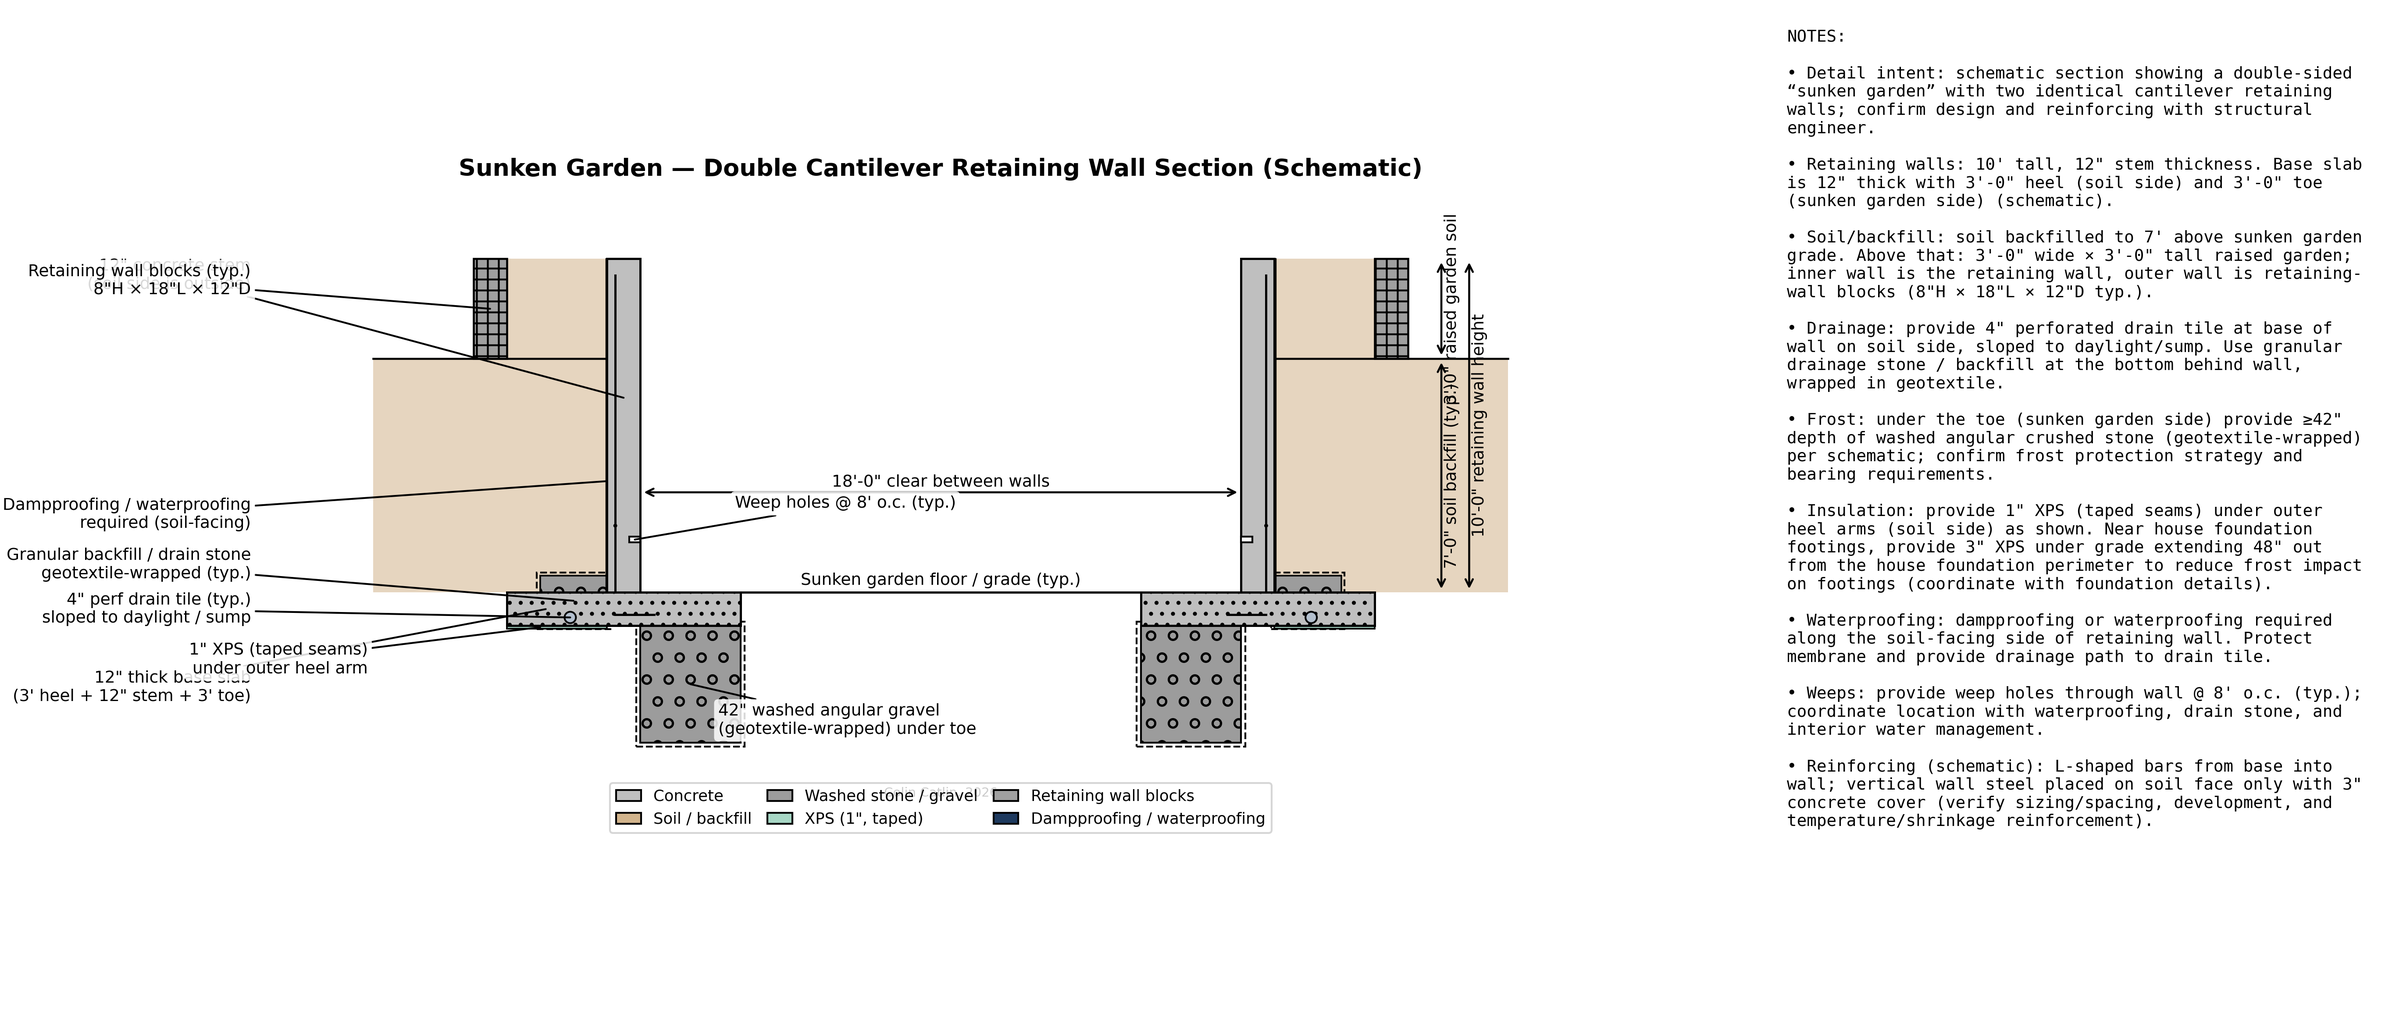
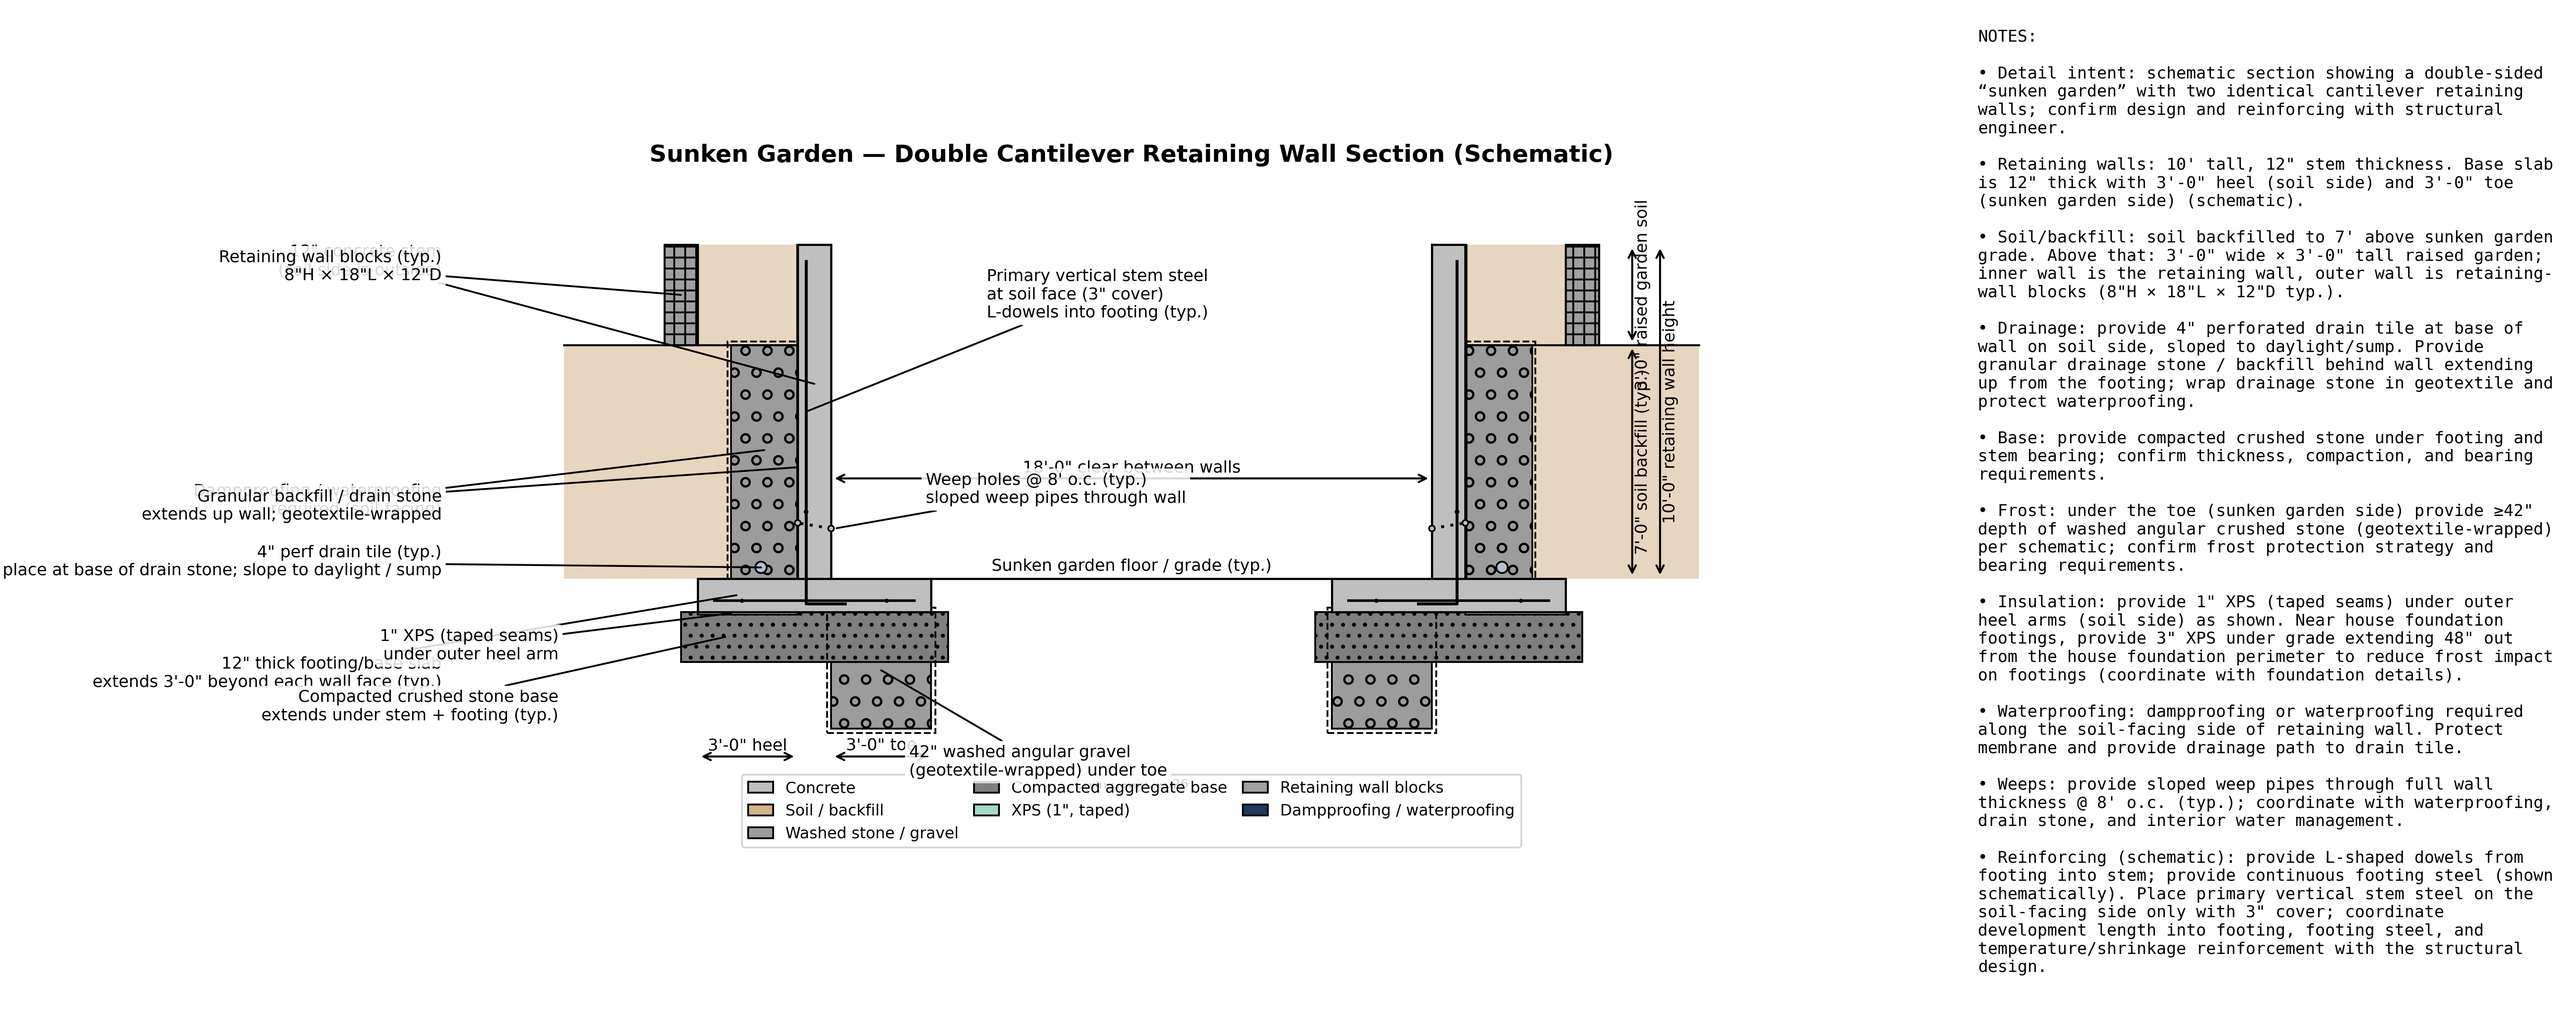
sunken garden v0

diff --git a/sunken_garden_retaining_wall_detail.py b/sunken_garden_retaining_wall_detail.py
@@ -88,6 +88,24 @@ def _pipe(ax, x, y, d, *, fc="#A7B5C6", ec="black", lw=1.1, z=6):
     ax.add_patch(Circle((x, y), radius=d / 2 - 0.25, facecolor=fc, edgecolor="none", alpha=0.85, zorder=z + 1))
 
 
+def _dotted_pipe(ax, p0, p1, d, *, z=15):
+    p0 = np.asarray(p0, dtype=float)
+    p1 = np.asarray(p1, dtype=float)
+    ax.plot(
+        [p0[0], p1[0]],
+        [p0[1], p1[1]],
+        color="black",
+        linewidth=1.6,
+        linestyle=(0, (1.0, 2.2)),
+        zorder=z,
+    )
+    for p in (p0, p1):
+        ax.add_patch(Circle((p[0], p[1]), radius=d / 2, facecolor="white", edgecolor="black", lw=1.0, zorder=z + 1))
+        ax.add_patch(
+            Circle((p[0], p[1]), radius=d / 2 - 0.25, facecolor="#A7B5C6", edgecolor="none", alpha=0.85, zorder=z + 2)
+        )
+
+
 def _rebar_L(ax, x_cover_from_face, x_face, y_base_bot, y_base_top, y_wall_top, *, hook=14.0, z=20):
     """
     Draw a schematic L-bar: vertical along wall, hooks into base slab.
@@ -97,11 +115,17 @@ def _rebar_L(ax, x_cover_from_face, x_face, y_base_bot, y_base_top, y_wall_top, 
     """
 
     x_vert = x_face + x_cover_from_face
-    y_hook = y_base_bot + 4.0
+    y_hook = y_base_bot + 3.0
+    x_hook = x_vert + np.sign(x_cover_from_face) * hook
 
-    ax.plot([x_vert, x_vert], [y_base_top, y_wall_top - 6.0], color="black", linewidth=1.2, zorder=z)
-    ax.plot([x_vert, x_vert + np.sign(x_cover_from_face) * hook], [y_hook, y_hook], color="black", linewidth=1.2, zorder=z)
-    ax.add_patch(Circle((x_vert, y_base_top + 24.0), radius=0.7, facecolor="black", edgecolor="none", zorder=z + 1))
+    ax.plot([x_vert, x_vert, x_hook], [y_wall_top - 6.0, y_hook, y_hook], color="black", linewidth=1.6, zorder=z)
+    ax.add_patch(Circle((x_vert, y_base_top + 24.0), radius=0.85, facecolor="black", edgecolor="none", zorder=z + 1))
+
+
+def _rebar_h(ax, x0, x1, y, *, z=20):
+    ax.plot([x0, x1], [y, y], color="black", linewidth=1.4, zorder=z)
+    for x in (x0 + 10.0, x1 - 10.0):
+        ax.add_patch(Circle((x, y), radius=0.75, facecolor="black", edgecolor="none", zorder=z + 1))
 
 
 def main():
@@ -113,6 +137,7 @@ def main():
     # Colors
     COL_CONC = "#BFBFBF"
     COL_GRAVEL = "#9C9C9C"
+    COL_AGG = "#7F7F7F"
     COL_SOIL = "#D2B48C"
     COL_XPS = "#A7D7C5"
     COL_BLOCK = "#A0A0A0"
@@ -136,13 +161,18 @@ def main():
     xps_thk = 1.0  # under outer heel arm
 
     drain_diam = 4.0
-    drain_stone_h = 18.0
     drain_stone_w = 24.0
+    drain_backfill_h = backfill_h
+
+    compacted_agg_thk = 18.0
+    compacted_agg_extra = 6.0
 
     # Coordinate system: sunken garden "interior" grade is y=0.
     y_int_grade = 0.0
     y_base_top = y_int_grade
     y_base_bot = y_base_top - base_thk
+    y_agg_top = y_base_bot
+    y_agg_bot = y_agg_top - compacted_agg_thk
     y_wall_top = y_base_top + wall_h
 
     # Two walls: inner faces at x=0 and x=inner_clear
@@ -172,13 +202,39 @@ def main():
     # -----------------------
     # Concrete: stems + bases
     # -----------------------
+    # Compacted aggregate base (extends under stem and beyond footing edges)
+    _rect(
+        ax,
+        xL_base0 - compacted_agg_extra,
+        y_agg_bot,
+        (xL_base1 - xL_base0) + 2 * compacted_agg_extra,
+        compacted_agg_thk,
+        fc=COL_AGG,
+        ec="black",
+        lw=1.0,
+        hatch="..",
+        z=2,
+    )
+    _rect(
+        ax,
+        xR_base0 - compacted_agg_extra,
+        y_agg_bot,
+        (xR_base1 - xR_base0) + 2 * compacted_agg_extra,
+        compacted_agg_thk,
+        fc=COL_AGG,
+        ec="black",
+        lw=1.0,
+        hatch="..",
+        z=2,
+    )
+
     # Left wall stem and base
     _rect(ax, xL_out, y_base_top, stem_thk, wall_h, fc=COL_CONC, z=5)
-    _rect(ax, xL_base0, y_base_bot, xL_base1 - xL_base0, base_thk, fc=COL_CONC, hatch="..", z=4)
+    _rect(ax, xL_base0, y_base_bot, xL_base1 - xL_base0, base_thk, fc=COL_CONC, z=4)
 
     # Right wall stem and base
     _rect(ax, xR_in, y_base_top, stem_thk, wall_h, fc=COL_CONC, z=5)
-    _rect(ax, xR_base0, y_base_bot, xR_base1 - xR_base0, base_thk, fc=COL_CONC, hatch="..", z=4)
+    _rect(ax, xR_base0, y_base_bot, xR_base1 - xR_base0, base_thk, fc=COL_CONC, z=4)
 
     # Interior grade line (sunken garden floor)
     ax.plot([xL_in, xR_in], [y_int_grade, y_int_grade], color="black", linewidth=1.2, zorder=30)
@@ -278,23 +334,23 @@ def main():
     _rect(ax, xR_block0, backfill_h, xR_block1 - xR_block0, raised_bed_h, fc=COL_BLOCK, hatch="++", lw=1.1, z=6)
 
     # -----------------------
-    # Drain tile + granular backfill (geotextile wrapped) on soil side at bottom
+    # Granular backfill + drain tile (geotextile wrapped) on soil side (extends above footing)
     # -----------------------
-    # Left drain stone envelope
+    # Left drain stone/backfill zone
     xL_drain0 = xL_out - drain_stone_w
     xL_drain1 = xL_out
-    y_drain0 = y_base_bot
-    y_drain1 = y_base_bot + drain_stone_h
+    y_drain0 = y_base_top
+    y_drain1 = drain_backfill_h
     _rect(ax, xL_drain0, y_drain0, xL_drain1 - xL_drain0, y_drain1 - y_drain0, fc=COL_GRAVEL, hatch="o", lw=0.9, z=2)
     _rect(ax, xL_drain0 - 1.2, y_drain0 - 1.2, (xL_drain1 - xL_drain0) + 2.4, (y_drain1 - y_drain0) + 2.4, fc="none", ec="black", ls="--", lw=1.0, z=3)
-    _pipe(ax, xL_out - drain_stone_w * 0.55, y_base_bot + drain_diam * 0.75, drain_diam)
+    _pipe(ax, xL_out - drain_stone_w * 0.55, y_base_top + drain_diam * 1.0, drain_diam)
 
-    # Right drain stone envelope
+    # Right drain stone/backfill zone
     xR_drain0 = xR_out
     xR_drain1 = xR_out + drain_stone_w
     _rect(ax, xR_drain0, y_drain0, xR_drain1 - xR_drain0, y_drain1 - y_drain0, fc=COL_GRAVEL, hatch="o", lw=0.9, z=2)
     _rect(ax, xR_drain0 - 1.2, y_drain0 - 1.2, (xR_drain1 - xR_drain0) + 2.4, (y_drain1 - y_drain0) + 2.4, fc="none", ec="black", ls="--", lw=1.0, z=3)
-    _pipe(ax, xR_out + drain_stone_w * 0.55, y_base_bot + drain_diam * 0.75, drain_diam)
+    _pipe(ax, xR_out + drain_stone_w * 0.55, y_base_top + drain_diam * 1.0, drain_diam)
 
     # -----------------------
     # Waterproofing / dampproofing on soil-facing side of wall
@@ -304,13 +360,13 @@ def main():
     _rect(ax, xR_out, y_base_top, mem_thk, wall_h, fc=COL_MEM, ec="black", lw=0.8, z=7)
 
     # -----------------------
-    # Weep holes (schematic) through wall near base
+    # Weep holes: sloped dotted pipes through full wall depth
     # -----------------------
     weep_y = y_base_top + 18.0
-    weep_h = 2.0
-    weep_w = 4.0
-    _rect(ax, xL_out + stem_thk - weep_w, weep_y, weep_w, weep_h, fc="white", ec="black", lw=1.0, z=12)
-    _rect(ax, xR_in, weep_y, weep_w, weep_h, fc="white", ec="black", lw=1.0, z=12)
+    weep_pipe_d = 2.0
+    weep_rise = 2.0
+    _dotted_pipe(ax, (xL_in, weep_y), (xL_out, weep_y + weep_rise), weep_pipe_d, z=12)
+    _dotted_pipe(ax, (xR_in, weep_y), (xR_out, weep_y + weep_rise), weep_pipe_d, z=12)
 
     # -----------------------
     # Rebar: L-bar from base into wall; vertical along soil face with 3" cover
@@ -320,6 +376,9 @@ def main():
     _rebar_L(ax, +cover, xL_out, y_base_bot, y_base_top, y_wall_top)
     # Right wall soil face is xR_out (outer face to the right)
     _rebar_L(ax, -cover, xR_out, y_base_bot, y_base_top, y_wall_top)
+    # Footing steel (schematic, continuous)
+    _rebar_h(ax, xL_base0 + 6.0, xL_base1 - 6.0, y_base_bot + 4.0)
+    _rebar_h(ax, xR_base0 + 6.0, xR_base1 - 6.0, y_base_bot + 4.0)
 
     # -----------------------
     # Dimensions
@@ -328,6 +387,9 @@ def main():
     _dim_v(ax, y_base_top, y_wall_top, xR_block1 + 22.0, '10\'-0" retaining wall height')
     _dim_v(ax, y_base_top, backfill_h, xR_block1 + 12.0, '7\'-0" soil backfill (typ.)')
     _dim_v(ax, backfill_h, y_wall_top, xR_block1 + 12.0, '3\'-0" raised garden soil')
+    dim_foot_y = (y_base_bot - toe_gravel_depth) - 10.0
+    _dim_h(ax, xL_base0, xL_out, dim_foot_y, '3\'-0" heel')
+    _dim_h(ax, xL_in, xL_base1, dim_foot_y, '3\'-0" toe')
 
     # -----------------------
     # Leaders / callouts
@@ -343,7 +405,15 @@ def main():
         ax,
         (xL_base0 + 14.0, y_base_bot + base_thk / 2),
         (xL_block0 - 80.0, y_base_bot - 16.0),
-        '12" thick base slab\n(3\' heel + 12" stem + 3\' toe)',
+        '12" thick footing/base slab\nextends 3\'-0" beyond each wall face (typ.)',
+        ha="right",
+        va="top",
+    )
+    _leader(
+        ax,
+        (xL_base0 + 10.0, y_agg_bot + compacted_agg_thk / 2),
+        (xL_out - 86.0, y_agg_bot - 10.0),
+        "Compacted crushed stone base\nextends under stem + footing (typ.)",
         ha="right",
         va="top",
     )
@@ -356,22 +426,28 @@ def main():
     )
     _leader(
         ax,
-        (xL_out - drain_stone_w * 0.55, y_base_bot + drain_diam * 0.75),
-        (xL_block0 - 80.0, y_base_bot + 6.0),
-        '4" perf drain tile (typ.)\nsloped to daylight / sump',
+        (xL_out + cover, y_base_top + 60.0),
+        (xL_in + 56.0, y_wall_top - 18.0),
+        'Primary vertical stem steel\nat soil face (3" cover)\nL-dowels into footing (typ.)',
+    )
+    _leader(
+        ax,
+        (xL_out - drain_stone_w * 0.55, y_base_top + drain_diam * 1.0),
+        (xL_block0 - 80.0, y_base_top + 6.0),
+        '4" perf drain tile (typ.)\nplace at base of drain stone; slope to daylight / sump',
         ha="right",
     )
     _leader(
         ax,
-        (xL_out - drain_stone_w / 2, y_base_bot + drain_stone_h / 2),
-        (xL_block0 - 80.0, y_base_bot + 22.0),
-        "Granular backfill / drain stone\ngeotextile-wrapped (typ.)",
+        (xL_out - drain_stone_w / 2, backfill_h * 0.55),
+        (xL_block0 - 80.0, y_base_top + 26.0),
+        "Granular backfill / drain stone\nextends up wall; geotextile-wrapped",
         ha="right",
     )
     _leader(
         ax,
         ((xL_toe0 + xL_toe1) / 2, y_base_bot - toe_gravel_depth / 2),
-        (xL_in + 28.0, y_base_bot - 34.0),
+        (xL_in + 28.0, (y_base_bot - toe_gravel_depth) - 12.0),
         '42" washed angular gravel\n(geotextile-wrapped) under toe',
     )
     _leader(
@@ -384,9 +460,9 @@ def main():
     )
     _leader(
         ax,
-        (xL_out + stem_thk - weep_w / 2, weep_y + weep_h / 2),
+        (xL_in + 2.0, weep_y + 0.1),
         (xL_in + 34.0, weep_y + 14.0),
-        "Weep holes @ 8' o.c. (typ.)",
+        "Weep holes @ 8' o.c. (typ.)\nsloped weep pipes through wall",
     )
     _leader(
         ax,
@@ -397,11 +473,12 @@ def main():
     )
 
     ax.set_title("Sunken Garden — Double Cantilever Retaining Wall Section (Schematic)", fontsize=13, fontweight="bold", pad=12)
-    ax.text((xL_in + xR_in) / 2, y_base_bot - toe_gravel_depth - 16.0, "Colin Catlin, 2026", ha="center", va="top", fontsize=7)
+    ax.text((xL_in + xR_in) / 2, (y_base_bot - toe_gravel_depth) - 18.0, "Colin Catlin, 2026", ha="center", va="top", fontsize=7)
 
     # Framing / plot formatting
     ax.set_xlim(xL_block0 - 120.0, xR_block1 + 120.0)
-    ax.set_ylim(y_base_bot - toe_gravel_depth - 28.0, y_wall_top + 22.0)
+    y_bottom = min(y_agg_bot, y_base_bot - toe_gravel_depth) - 38.0
+    ax.set_ylim(y_bottom, y_wall_top + 22.0)
     ax.set_aspect("equal")
     ax.axis("off")
 
@@ -409,6 +486,7 @@ def main():
         Patch(facecolor=COL_CONC, edgecolor="black", label="Concrete"),
         Patch(facecolor=COL_SOIL, edgecolor="black", label="Soil / backfill"),
         Patch(facecolor=COL_GRAVEL, edgecolor="black", label="Washed stone / gravel"),
+        Patch(facecolor=COL_AGG, edgecolor="black", label="Compacted aggregate base"),
         Patch(facecolor=COL_XPS, edgecolor="black", label='XPS (1", taped)'),
         Patch(facecolor=COL_BLOCK, edgecolor="black", label="Retaining wall blocks"),
         Patch(facecolor=COL_MEM, edgecolor="black", label="Dampproofing / waterproofing"),
@@ -442,7 +520,9 @@ def main():
         "",
         "• Soil/backfill: soil backfilled to 7' above sunken garden grade. Above that: 3'-0\" wide × 3'-0\" tall raised garden; inner wall is the retaining wall, outer wall is retaining-wall blocks (8\"H × 18\"L × 12\"D typ.).",
         "",
-        "• Drainage: provide 4\" perforated drain tile at base of wall on soil side, sloped to daylight/sump. Use granular drainage stone / backfill at the bottom behind wall, wrapped in geotextile.",
+        "• Drainage: provide 4\" perforated drain tile at base of wall on soil side, sloped to daylight/sump. Provide granular drainage stone / backfill behind wall extending up from the footing; wrap drainage stone in geotextile and protect waterproofing.",
+        "",
+        "• Base: provide compacted crushed stone under footing and stem bearing; confirm thickness, compaction, and bearing requirements.",
         "",
         "• Frost: under the toe (sunken garden side) provide ≥42\" depth of washed angular crushed stone (geotextile-wrapped) per schematic; confirm frost protection strategy and bearing requirements.",
         "",
@@ -450,9 +530,9 @@ def main():
         "",
         "• Waterproofing: dampproofing or waterproofing required along the soil-facing side of retaining wall. Protect membrane and provide drainage path to drain tile.",
         "",
-        "• Weeps: provide weep holes through wall @ 8' o.c. (typ.); coordinate location with waterproofing, drain stone, and interior water management.",
+        "• Weeps: provide sloped weep pipes through full wall thickness @ 8' o.c. (typ.); coordinate with waterproofing, drain stone, and interior water management.",
         "",
-        "• Reinforcing (schematic): L-shaped bars from base into wall; vertical wall steel placed on soil face only with 3\" concrete cover (verify sizing/spacing, development, and temperature/shrinkage reinforcement).",
+        "• Reinforcing (schematic): provide L-shaped dowels from footing into stem; provide continuous footing steel (shown schematically). Place primary vertical stem steel on the soil-facing side only with 3\" cover; coordinate development length into footing, footing steel, and temperature/shrinkage reinforcement with the structural design.",
     ]
     ax_notes.text(2, 146, _wrap_notes(raw_notes), fontsize=9, va="top", ha="left", family="monospace")
 
@@ -463,4 +543,3 @@ def main():
 
 if __name__ == "__main__":
     print(main())
-
